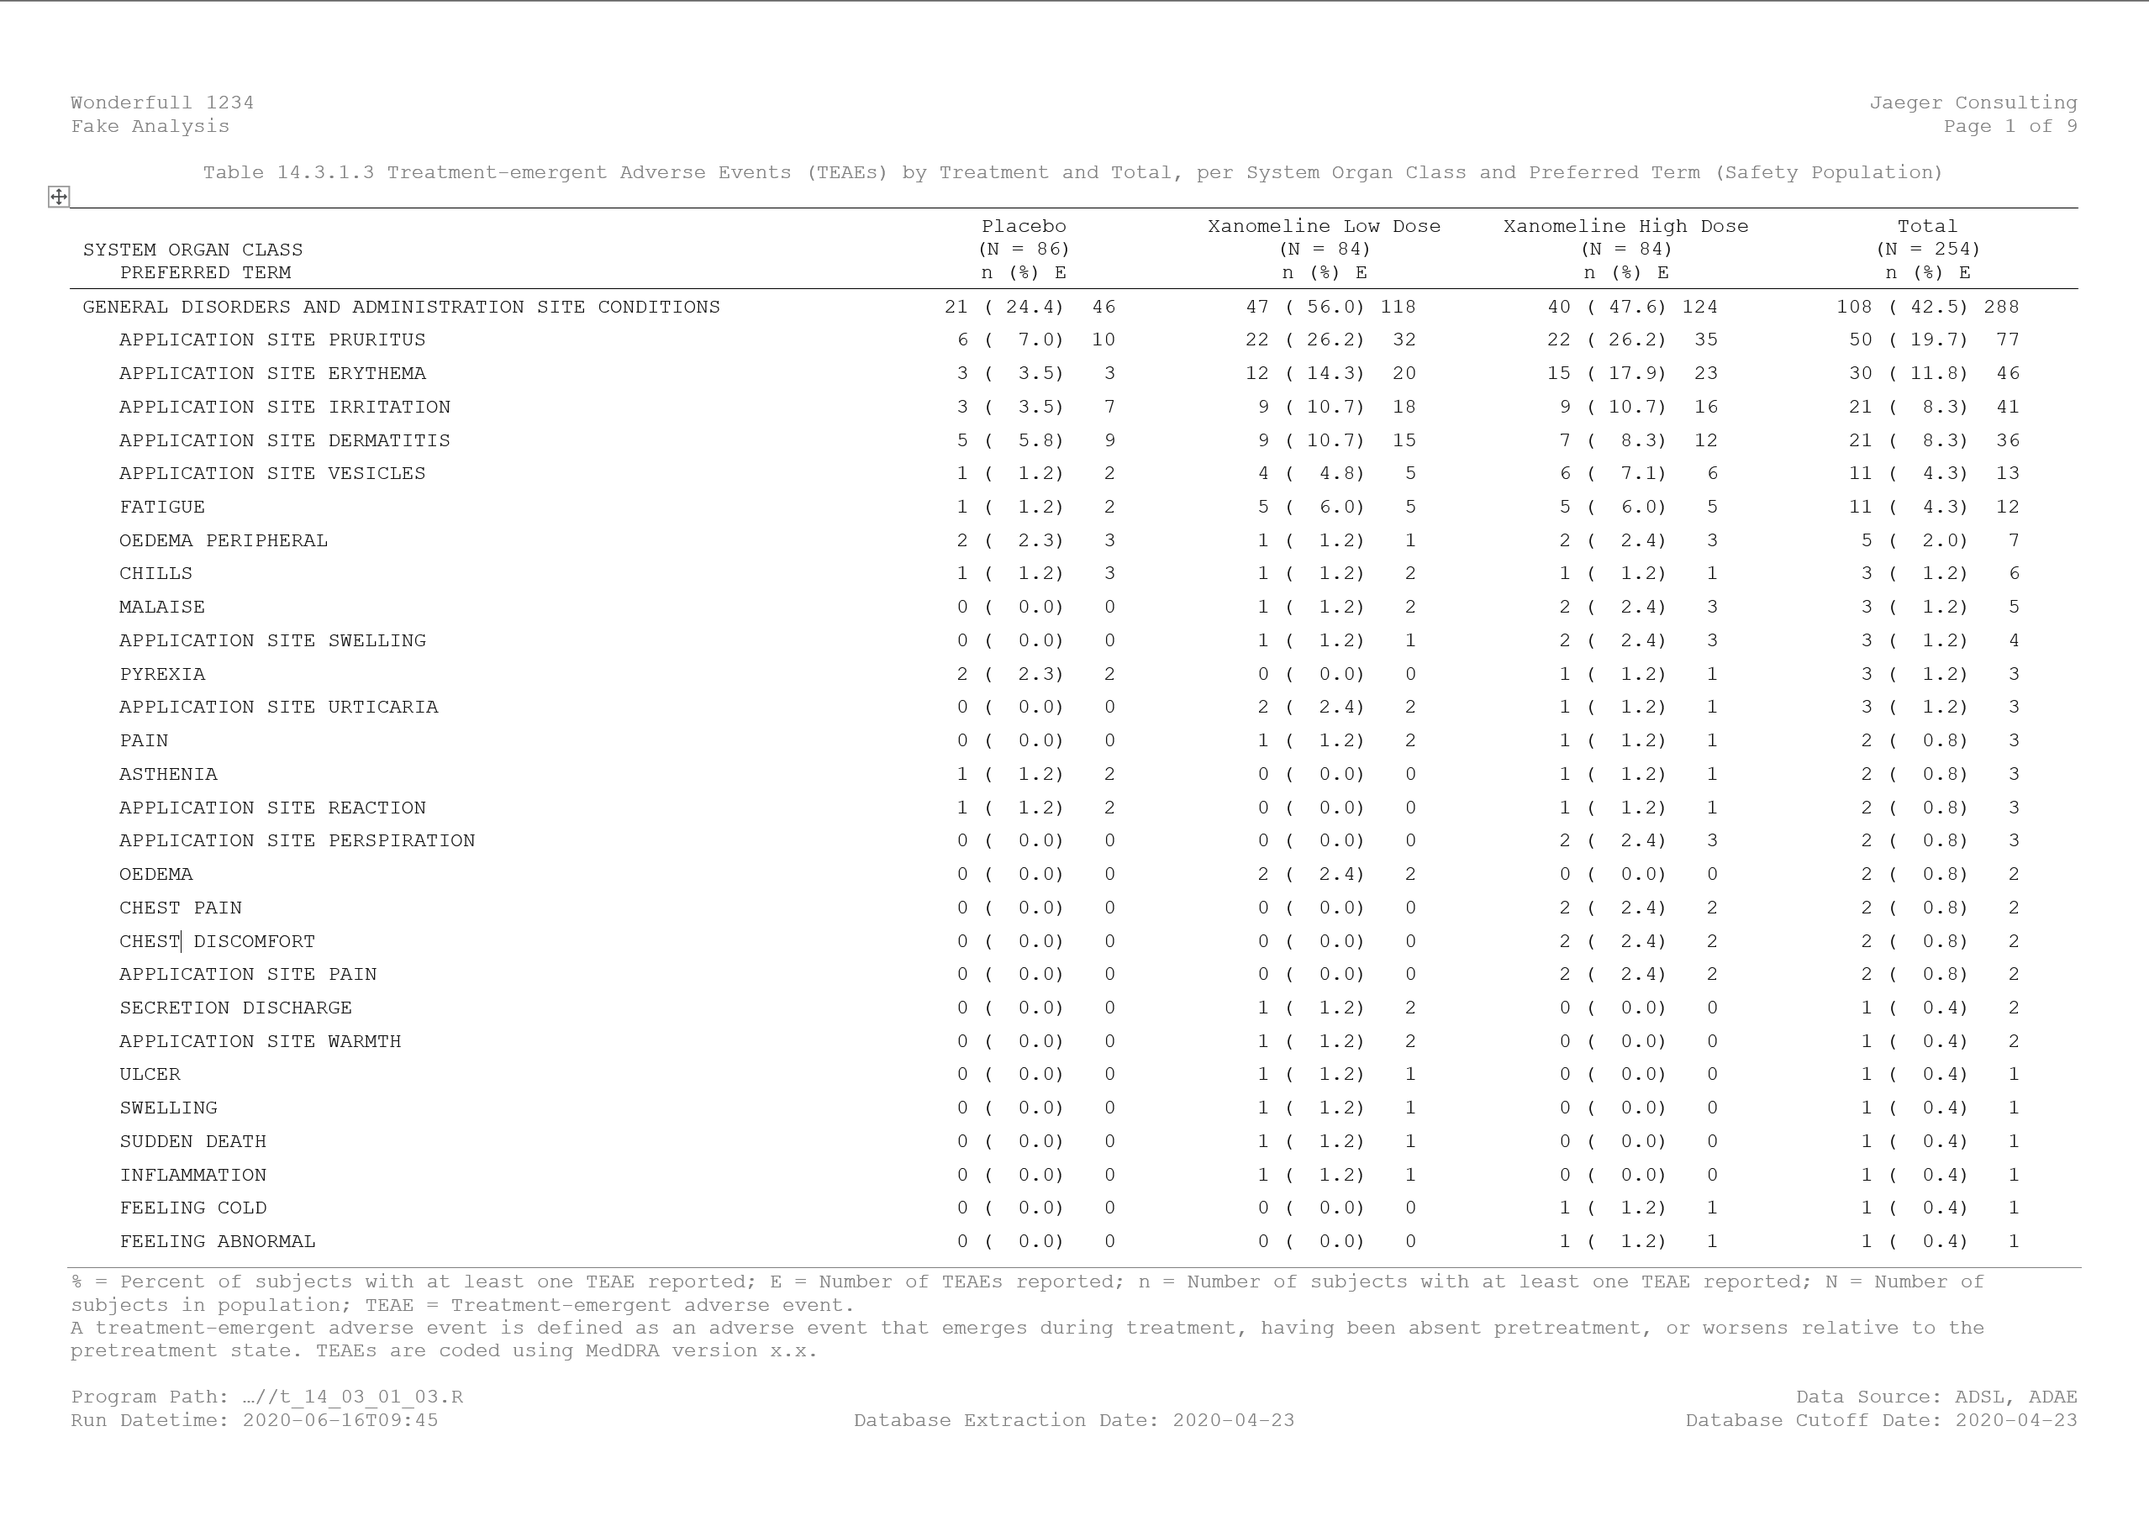
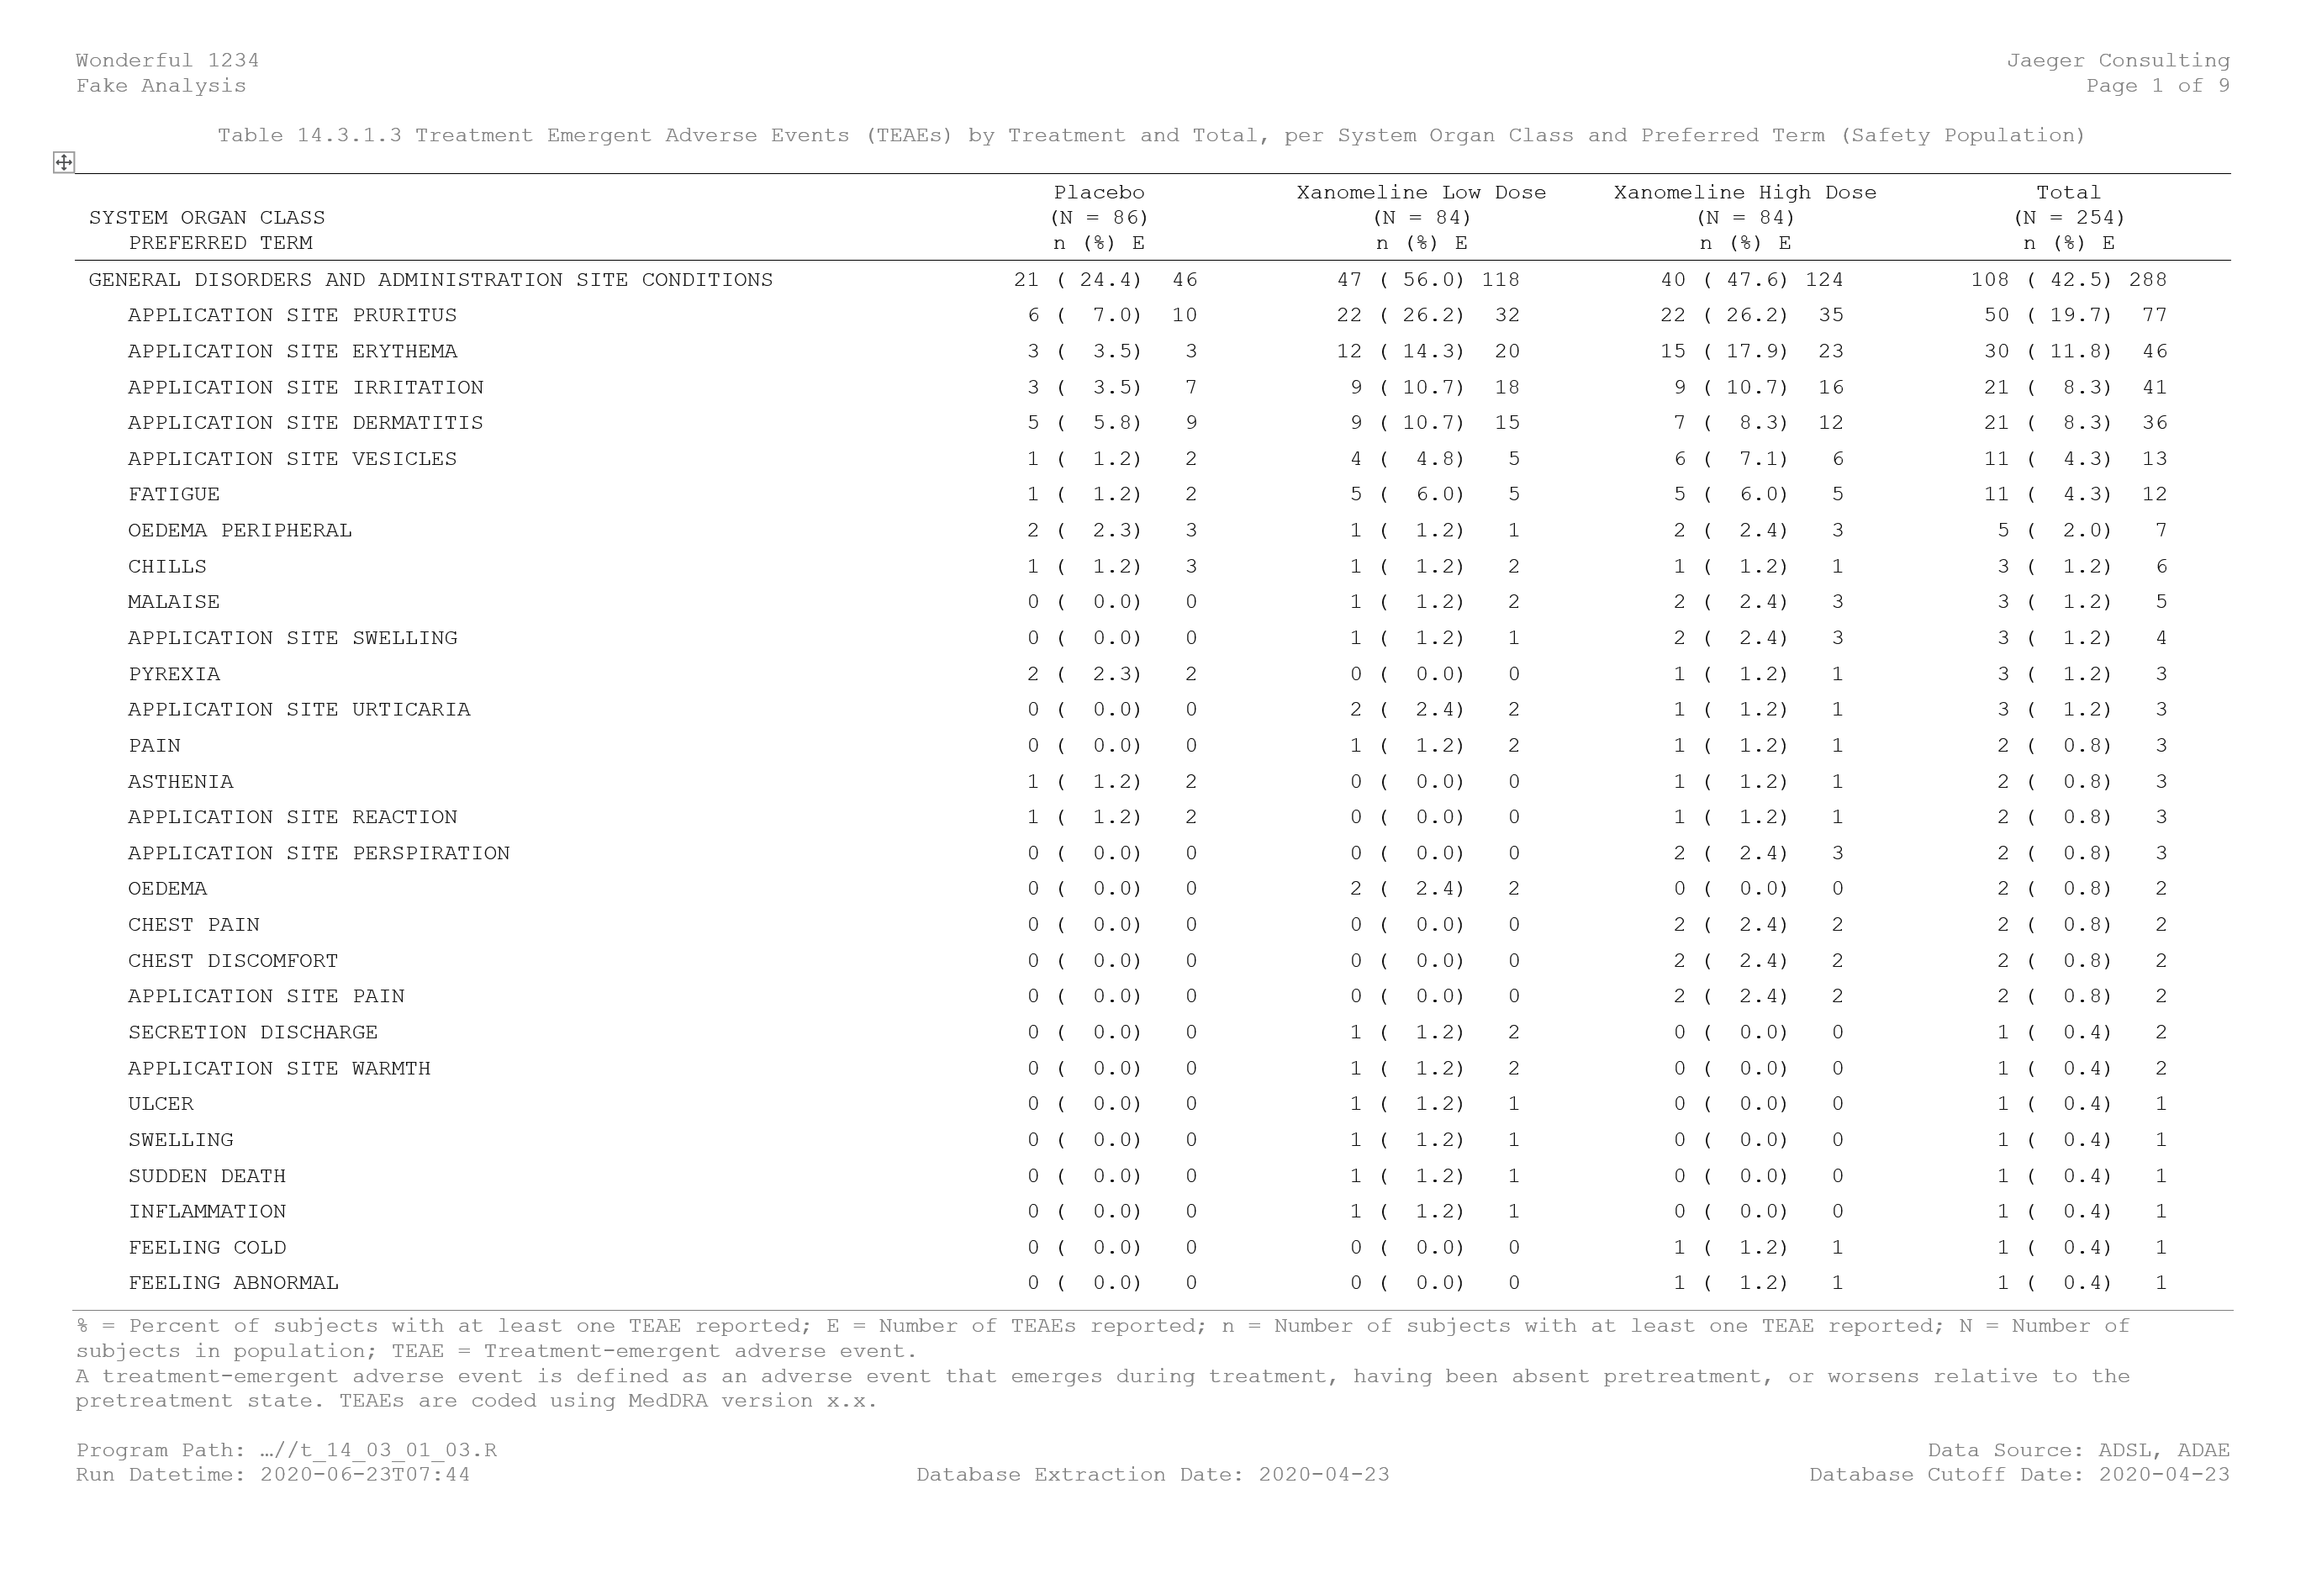
20200623T0802

diff --git a/tfls_with_R.html b/tfls_with_R.html
@@ -355,7 +355,7 @@ $(document).ready(function () {
 </div>
 <div id="connect-your-local-repository-with-github" class="section level3">
 <h3>1.2. Connect your local repository with GitHub</h3>
-<p>If it is needed, the local repository can simply be connected with GitHub. Just create a personal token under <a href="https://github.com/settings/tokens">https://github.com/settings/tokens</a> and the function use_github from the package usethis.</p>
+<p>If it is needed, the local repository can simply be connected with GitHub. Just create a personal token under <a href="https://github.com/settings/tokens">https://github.com/settings/tokens</a> and the function use_github from the package <a href="https://cran.r-project.org/web/packages/usethis/">usethis</a>.</p>
 <p><br></p>
 </div>
 </div>
@@ -370,8 +370,8 @@ $(document).ready(function () {
 </div>
 <div id="fields" class="section level3">
 <h3>2.2. Fields</h3>
-<p>The next important part is to specify fields that will contain the relevant information needed in the header and the footer. The followings are present in the header: protocol name, company name, analysis name, page numbering and the title of the output. For the footer, the followings are present: the footnotes, the program path, the data source, the run datetime, the database extraction date and the database cutoff date.</p>
-<p>In the template, each of those information is a field. When the R Markdown will be knited, information from the YAML metadata will be used. In the image below, the text “Protocol Number Missing” is in fact the following field { IF “{ DOCPROPERTY ProtocolNumber }” = “Error! Unknown document property name.” “Protocol Number Missing” “{ DOCPROPERTY ProtocolNumber }” }.</p>
+<p>The next important part is to specify fields that will contain the relevant information needed in the header and the footer. It is extremely important to liaise with the medical writers to ensure that all relevant information needed for the clinical study report is present in the template. Usually for the end-text outputs, the followings are present in the header: protocol name, company name, analysis name, page numbering and the title of the output. For the footer, the followings are present: the footnotes, the program path, the data source, the run datetime, the database extraction date and the database cut-off date. For in-text outputs, information might slightly differ.</p>
+<p>In the template, each information is a field. When the R Markdown will be knitted, information from the YAML metadata will be used. In the image below, the text “Protocol Number Missing” is in fact the following field { IF “{ DOCPROPERTY ProtocolNumber }” = “Error! Unknown document property name.” “Protocol Number Missing” “{ DOCPROPERTY ProtocolNumber }” }.</p>
 <center>
 <div>
 <p><img src="images/template_fields.png" alt = "Template with fields" style = "margin-top: 10px; margin-bottom: 10px;"></p>
@@ -386,10 +386,10 @@ $(document).ready(function () {
 <h3>3.1 Setting up the YAML metadata</h3>
 <p>An R Markdown file, with default output set at Word document can now be created. The YAML metadata will inform the document properties of the output. In the below, the first 9 elements will be used for the header and the footer of the output. The last 3 elements are specifying that the output will be a Word document with the reference document being the template just created.</p>
 <pre class="r"><code>---
-ProtocolNumber: &quot;Wonderfull 1234&quot;
+ProtocolNumber: &quot;Wonderful 1234&quot;
 CompanyName: &quot;Jaeger Consulting&quot;
 AnalysisName: &quot;Fake Analysis&quot;
-OutputTitle: &quot;Table 14.3.1.3 Treatment-emergent Adverse Events (TEAEs) by Treatment and Total, per System Organ Class and Preferred Term (Safety Population)&quot;
+OutputTitle: &quot;Table 14.3.1.3 Treatment Emergent Adverse Events (TEAEs) by Treatment and Total, per System Organ Class and Preferred Term (Safety Population)&quot;
 ProgramPath: &quot;...//t_14_03_01_03.R&quot;
 DataSource: &quot;ADSL, ADAE&quot;
 RunDatetime: &quot;`r format(Sys.time(), &#39;%Y-%m-%dT%H:%M&#39;)`&quot;
@@ -404,18 +404,18 @@ output:
 <div id="working-on-the-content-of-the-output" class="section level3">
 <h3>3.2 Working on the content of the output</h3>
 <p>The next steps are quite easy. It will just consist to create the R code to create the table, figure or listing of interest. Working with R Markdown will then ensure that the main content is within the body of the document.</p>
-<p>In my case, I was interested in creating a summary table for the treatment emergent adverse events by treatment and total, per the system organ class and preferred term. To do so, I have:</p>
+<p>In my case, I was interested in creating a summary table for the treatment emergent adverse events by treatment and in total, per the system organ class and preferred term. To do so, I have:</p>
 <ul>
 <li>downloaded the datasets adsl.xpt and adae.xpt available on the free repository <a href=https://bitbucket.cdisc.org/>https://bitbucket.cdisc.org/</a>;</li>
-<li>imported it in the environment of my R project using the function sasxport.get from the package Hmisc;</li>
+<li>imported it in the environment of my R project using the function sasxport.get from the package <a href="https://cran.r-project.org/web/packages/Hmisc/">Hmisc</a>;</li>
 <li>worked on creating summary information (number of subjects with at least one event, percentage of subjects with at least one event and number of events) with standard ordering for adverse events summary tables;</li>
-<li>reported the table using the function flextable from the package flextable.</li>
+<li>reported the table using the function flextable from the package <a href="https://cran.r-project.org/web/packages/flextable/">flextable</a>.</li>
 </ul>
 <p><br></p>
 </div>
 <div id="knit" class="section level3">
 <h3>3.3 Knit</h3>
-<p>Once the R Markdown file is ready, you can simply knit it using the shortcut Ctrl+Shift+K. In case the output is not expected to be created in the same folder than the R Markdown file, the function render from the package rmarkdown can be used.</p>
+<p>Once the R Markdown file is ready, you can simply knit it using the shortcut Ctrl+Shift+K. In case the output is not expected to be created in the same folder than the R Markdown file, the function render from the package <a href="https://cran.r-project.org/web/packages/rmarkdown/">rmarkdown</a> can be used.</p>
 <p>The image below is a printscreen of the output created.</p>
 <center>
 <div>
@@ -423,7 +423,7 @@ output:
 </div>
 </center>
 <p><br></p>
-<p><small><em>Post created on 2020-06-16. Last update on 2020-06-17.</em></small></p>
+<p><small><em>Post created on 2020-06-16. Last update on 2020-06-23.</em></small></p>
 <hr />
 <p><br></p>
 </div>

diff --git a/about_me.html b/about_me.html
@@ -353,7 +353,7 @@ $(document).ready(function () {
 <p>Early in my career, while I was under a PhD program, I developed a Bayesian penalized smoothing approach for solving differential equations with application to pharmacokinetic and recovery studies <span class="citation">(see Jaeger and Lambert 2013, 2014; Frasso, Jaeger, and Lambert 2016a, 2016b)</span>. In addition, during this period, I have provided statistical consulting services, helping researchers in applying appropriate statistical methodologies. I had also the opportunity to give statistical trainings for statisticians and non-statisticians.</p>
 <p>I joined the food industry in 2014 where I have contributed, in a fully in-house model, to the clinical development and clinical operations in the area of preterm nutrition <span class="citation">(Rigo et al. 2017)</span> and other nutrition solutions <span class="citation">(Binia et al. 2015)</span>.</p>
 <p>In 2016, I moved to the pharmaceutical industry where I was lead statistician in support of phase I-III drug development in multiple therapeutic areas (haemato-oncology, oncology and infection) and novel therapeutic products (CAR T cells, checkpoint inhibitors, radiotherapeutics, antibody drug conjugates, …). Given the high unmet medical need context and novel therapy setting, rigorous and agile statistical expertise was essential to maneuver the clinical project seamlessly between clinical development needs, regulatory requirements and operational challenges.</p>
-<p>I have created Jaeger Consulting in 2020 with the goal to nurture early and late clinical development with statistical innovation. Bayesian approaches, adaptive design strategies and informed quantitative decision-making tools are the basis elements promoted for impacting and fastering clinical development.</p>
+<p>I have created Jaeger Consulting in 2020 with the goal to nurture early and late clinical development with statistical innovation. Bayesian approaches, adaptive design strategies and informed quantitative decision-making tools are the basis elements promoted for impacting and fastering the clinical development.</p>
 <p><br></p>
 <hr />
 <p><br></p>

diff --git a/adaptive_design.html b/adaptive_design.html
@@ -345,8 +345,8 @@ $(document).ready(function () {
 <div style="float:right;">
 <p><img src="images/adaptive.png" style="height: 125px; margin-left: 25px;"></p>
 </div>
-<p>Per the 2019 FDA guidance on adaptive desings for clinical trials of drugs and biologics, an adaptive design is defined as <em>“a clinical trial design that allows for prospectively planned modifications to one or more aspects of the design based on accumulating data from subjects in the trial”</em>.</p>
-<p>Adaptive designs requires to put in place statistical and operational safeguards in order to maintain the validity and the integrity of the trial.</p>
+<p>Per the 2019 FDA guidance on adaptive designs for clinical trials of drugs and biologics, an adaptive design is defined as <em>“a clinical trial design that allows for prospectively planned modifications to one or more aspects of the design based on accumulating data from subjects in the trial”</em>.</p>
+<p>Adaptive designs require to put in place statistical and operational safeguards in order to maintain the validity and the integrity of the trial.</p>
 
 <p><br><br><br></p>
 <p style="text-align:center;">
